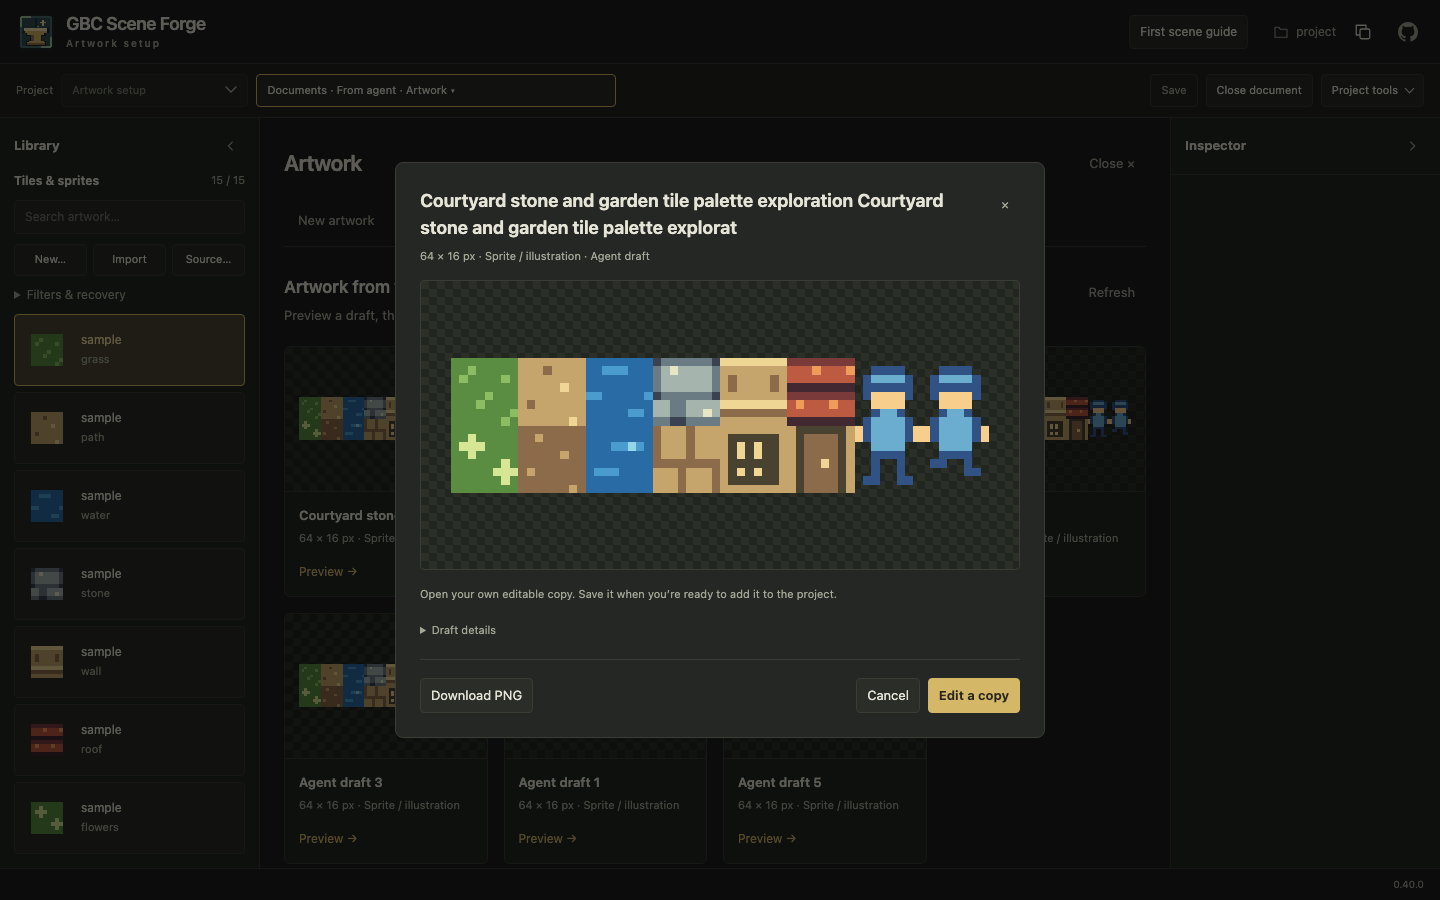
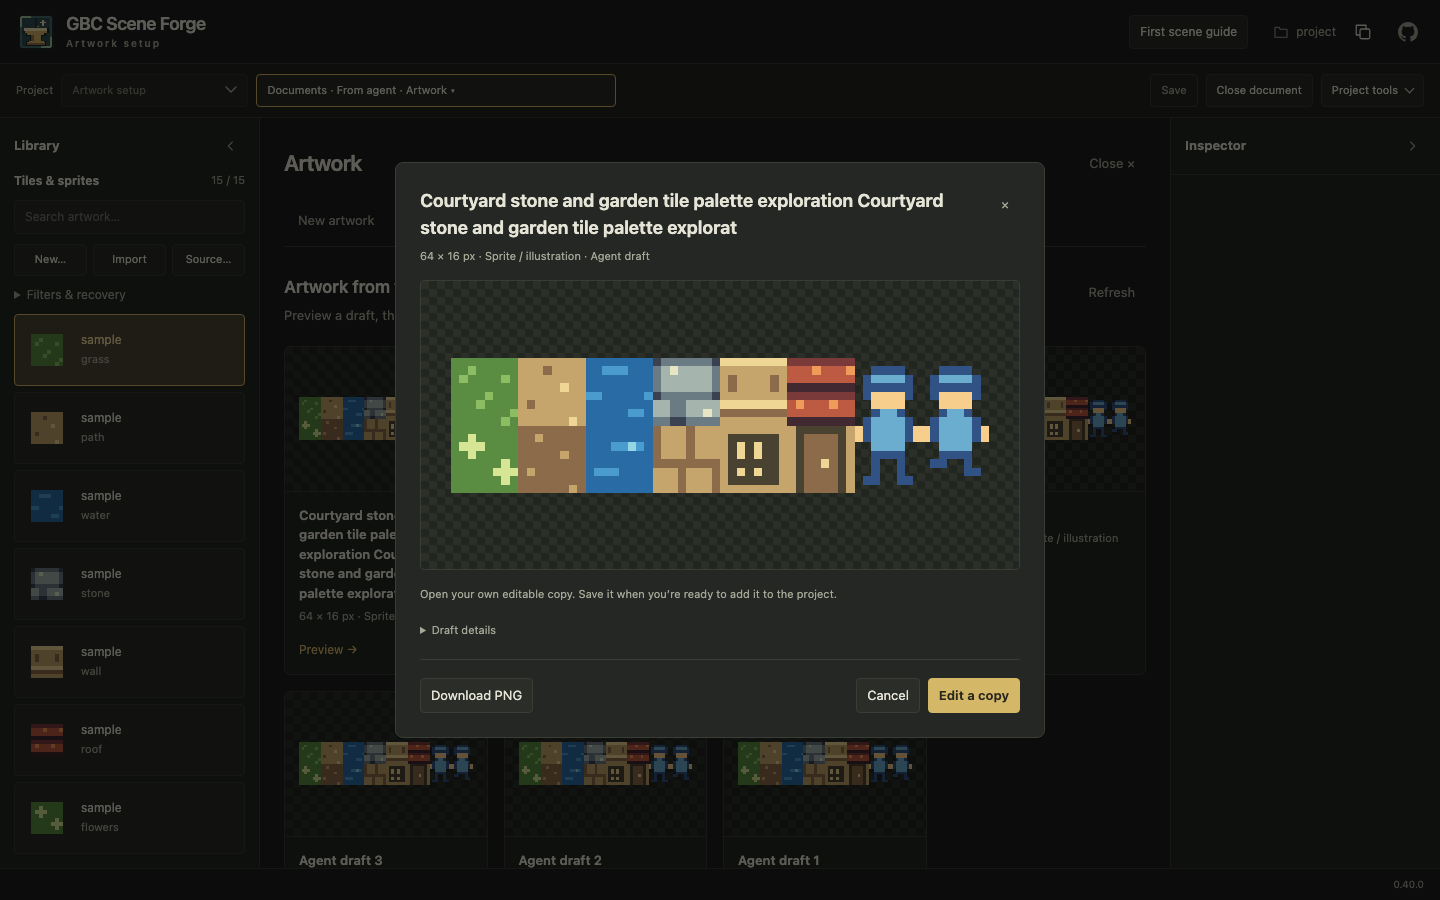
Wrap long agent draft names in gallery cards

diff --git a/tests/playwright/artwork/setup.spec.ts b/tests/playwright/artwork/setup.spec.ts
@@ -85,6 +85,11 @@ for (const viewport of [
     await page.screenshot({ path: info.outputPath('agent-gallery.png') });
     const galleryBox = await page.locator('#art-handoff-candidates').boundingBox();
     expect(galleryBox && galleryBox.x + galleryBox.width).toBeLessThanOrEqual(viewport.width);
+    const longTitle = page
+      .locator('#art-handoff-candidates strong')
+      .filter({ hasText: 'Courtyard' });
+    expect(await longTitle.evaluate((node) => node.scrollWidth <= node.clientWidth)).toBe(true);
+    expect(await longTitle.evaluate((node) => getComputedStyle(node).whiteSpace)).toBe('normal');
     await card.click();
     await expect(page.locator('#art-agent-image canvas')).toBeVisible();
     await expect(page.locator('#art-agent-details')).not.toHaveAttribute('open');

diff --git a/src/gbc_scene_forge/static/project.css b/src/gbc_scene_forge/static/project.css
@@ -819,6 +819,7 @@
 .art-agent-cards {display:grid;grid-template-columns:repeat(auto-fill,minmax(min(190px,100%),1fr));gap:16px}
 .art-agent-cards>section {min-width:0}
 .art-agent-card {display:flex;flex-direction:column;text-align:left;width:100%;height:100%;padding:0 0 15px;border-radius:6px;background:var(--panel);overflow:hidden}
+.standalone .art-agent-card {white-space:normal}
 .art-agent-card>strong,.art-agent-card>.hint,.art-agent-card-action {padding:0 14px;max-width:100%;overflow-wrap:anywhere}
 .art-agent-card>strong {font-size:13px;font-weight:600;margin-top:14px}
 .art-agent-card>.hint {margin-top:4px}

diff --git a/docs/VALIDATION.md b/docs/VALIDATION.md
@@ -40,7 +40,11 @@ Dates, revisions and environments missing from the originals remain unknown.
   All 118 MCP tests and 16 real-MCP browser cases pass. Distribution metadata,
   seven installed-wheel smoke cases, installed-wheel first use and strict lock
   consistency pass. Setup opens on creation despite seven drafts; preview and
-  downloads preserve publication guards, and editing restores commands.
+  downloads preserve publication guards, and editing restores commands. Final
+  screenshot review exposed inherited no-wrap clipping on long card names; the
+  corrected CSS, layout assertion and refreshed captures pass all 17 focused
+  setup/working-space cases, lint and rebuilt distribution checks. The full browser
+  and MCP results above precede this final CSS-only presentation correction.
 - **Limits:** Synthetic local automation and agent screenshot inspection do not
   establish independent-user discovery, accessibility conformance or physical-device
   comfort; #165/#166 remain outstanding below. Other optional profiles, official
